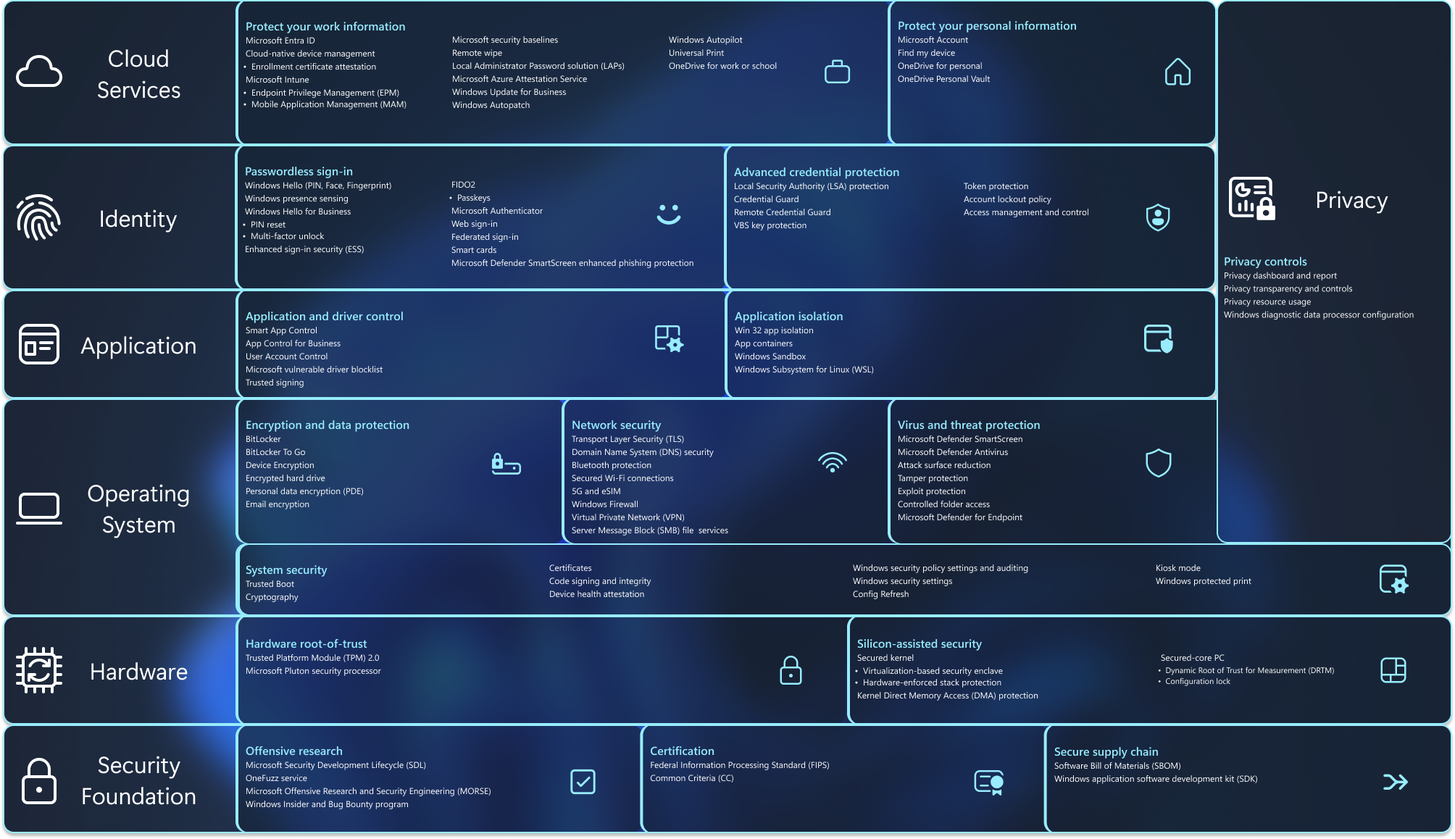
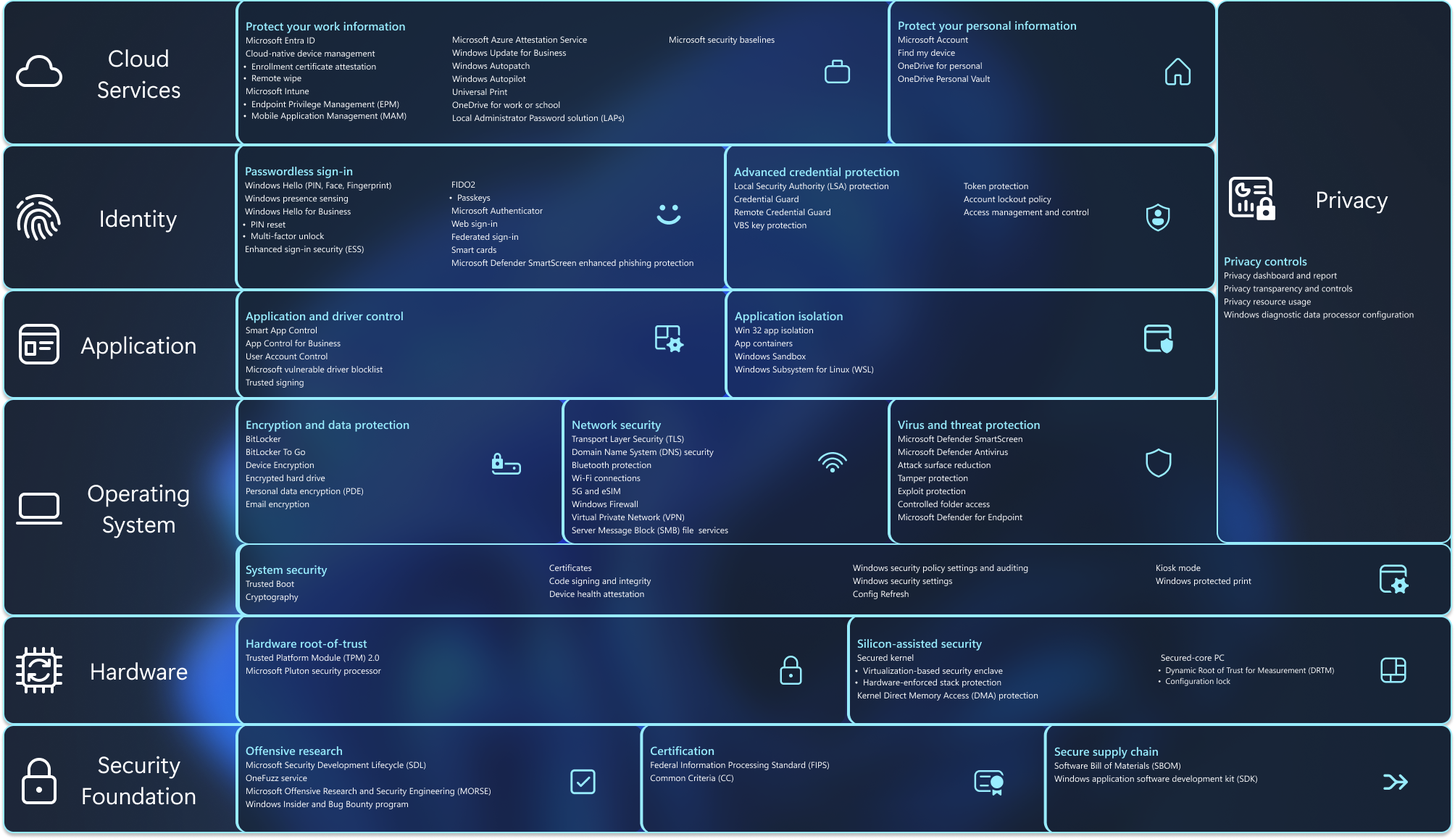
updates

diff --git a/windows/security/book/features-index.md b/windows/security/book/features-index.md
@@ -7,4 +7,4 @@ ms.date: 09/06/2024
 
 # Features index
 
-[5G and eSIM](operating-system-security-network-security.md#5g-and-esim)<br>[Access management and control](identity-protection-advanced-credential-protection.md#access-management-and-control)<br>[Account lockout policies](identity-protection-advanced-credential-protection.md#account-lockout-policies)<br>[App containers](application-security-application-isolation.md#app-containers)<br>[App Control for Business](application-security-application-and-driver-control.md#app-control-for-business)<br>[Attack surface reduction rules](operating-system-security-virus-and-threat-protection.md#attack-surface-reduction-rules)<br>[BitLocker To Go](operating-system-security-encryption-and-data-protection.md#bitlocker-to-go)<br>[BitLocker](operating-system-security-encryption-and-data-protection.md#bitlocker)<br>[Bluetooth protection](operating-system-security-network-security.md#bluetooth-protection)<br>[Certificates](operating-system-security-system-security.md#certificates)<br>[Cloud-native management](cloud-services-protect-your-work-information.md#cloud-native-management)<br>[Code signing and integrity](operating-system-security-system-security.md#code-signing-and-integrity)<br>[Common Criteria (CC)](security-foundation-certification.md#common-criteria-cc)<br>[Config Refresh](operating-system-security-system-security.md#config-refresh)<br>[Controlled folder access](operating-system-security-virus-and-threat-protection.md#controlled-folder-access)<br>[Credential Guard](identity-protection-advanced-credential-protection.md#credential-guard)<br>[Cryptography](operating-system-security-system-security.md#cryptography)<br>[Device Encryption](operating-system-security-encryption-and-data-protection.md#device-encryption)<br>[Device health attestation](operating-system-security-system-security.md#device-health-attestation)<br>[Domain Name System (DNS) security](operating-system-security-network-security.md#domain-name-system-dns-security)<br>[Email encryption](operating-system-security-encryption-and-data-protection.md#email-encryption)<br>[Encrypted hard drive](operating-system-security-encryption-and-data-protection.md#encrypted-hard-drive)<br>[Enhanced phishing protection with Microsoft Defender SmartScreen](identity-protection-passwordless-sign-in.md#enhanced-phishing-protection-with-microsoft-defender-smartscreen)<br>[Enhanced Sign-in Security (ESS)](identity-protection-passwordless-sign-in.md#enhanced-sign-in-security-ess)<br>[Exploit protection](operating-system-security-virus-and-threat-protection.md#exploit-protection)<br>[Federal Information Processing Standard (FIPS)](security-foundation-certification.md#federal-information-processing-standard-fips)<br>[Federated sign-in](identity-protection-passwordless-sign-in.md#federated-sign-in)<br>[FIDO2](identity-protection-passwordless-sign-in.md#fido2)<br>[Find my device](cloud-services-protect-your-personal-information.md#find-my-device)<br>[Kernel Direct Memory Access (DMA) protection](hardware-security-silicon-assisted-security.md#kernel-direct-memory-access-dma-protection)<br>[Kiosk mode](operating-system-security-system-security.md#kiosk-mode)<br>[Local Administrator Password (LAPs)](cloud-services-protect-your-work-information.md#local-administrator-password-laps)<br>[Local Security Authority (LSA) protection](identity-protection-advanced-credential-protection.md#local-security-authority-lsa-protection)<br>[MDM enrollment certificate attestation](cloud-services-protect-your-work-information.md#mdm-enrollment-certificate-attestation)<br>[Microsoft Account](cloud-services-protect-your-personal-information.md#microsoft-account)<br>[Microsoft Authenticator](identity-protection-passwordless-sign-in.md#microsoft-authenticator)<br>[Microsoft Azure Attestation Service](cloud-services-protect-your-work-information.md#microsoft-azure-attestation-service)<br>[Microsoft Defender Antivirus](operating-system-security-virus-and-threat-protection.md#microsoft-defender-antivirus)<br>[Microsoft Defender for Endpoint](operating-system-security-virus-and-threat-protection.md#microsoft-defender-for-endpoint)<br>[Microsoft Defender SmartScreen](operating-system-security-virus-and-threat-protection.md#microsoft-defender-smartscreen)<br>[Microsoft Entra ID](cloud-services-protect-your-work-information.md#microsoft-entra-id)<br>[Microsoft Intune](cloud-services-protect-your-work-information.md#microsoft-intune)<br>[Microsoft Offensive Research and Security Engineering](security-foundation-offensive-research.md#microsoft-offensive-research-and-security-engineering)<br>[Microsoft Pluton security processor](hardware-security-hardware-root-of-trust.md#microsoft-pluton-security-processor)<br>[Microsoft security baselines](cloud-services-protect-your-work-information.md#microsoft-security-baselines)<br>[Microsoft Security Development Lifecycle (SDL)](security-foundation-offensive-research.md#microsoft-security-development-lifecycle-sdl)<br>[Microsoft vulnerable driver blocklist](application-security-application-and-driver-control.md#microsoft-vulnerable-driver-blocklist)<br>[Network protection](operating-system-security-virus-and-threat-protection.md#network-protection)<br>[OneDrive for personal](cloud-services-protect-your-personal-information.md#onedrive-for-personal)<br>[OneDrive for work or school](cloud-services-protect-your-work-information.md#onedrive-for-work-or-school)<br>[OneDrive Personal Vault](cloud-services-protect-your-personal-information.md#onedrive-personal-vault)<br>[OneFuzz service](security-foundation-offensive-research.md#onefuzz-service)<br>[Personal data encryption (PDE)](operating-system-security-encryption-and-data-protection.md#personal-data-encryption-pde)<br>[Privacy dashboard and report](privacy-controls.md#privacy-dashboard-and-report)<br>[Privacy resource usage](privacy-controls.md#privacy-resource-usage)<br>[Privacy transparency and controls](privacy-controls.md#privacy-transparency-and-controls)<br>[Remote Credential Guard](identity-protection-advanced-credential-protection.md#remote-credential-guard)<br>[Remote Wipe](cloud-services-protect-your-work-information.md#remote-wipe)<br>[Secured kernel](hardware-security-silicon-assisted-security.md#secured-kernel)<br>[Secured-core PC](hardware-security-silicon-assisted-security.md#secured-core-pc)<br>[Server Message Block file services](operating-system-security-network-security.md#server-message-block-file-services)<br>[Smart App Control](application-security-application-and-driver-control.md#smart-app-control)<br>[Smart cards](identity-protection-passwordless-sign-in.md#smart-cards)<br>[Software bill of materials (SBOM)](security-foundation-secure-supply-chain.md#software-bill-of-materials-sbom)<br>[Tamper protection](operating-system-security-virus-and-threat-protection.md#tamper-protection)<br>[Token protection](identity-protection-advanced-credential-protection.md#token-protection)<br>[Transport Layer Security (TLS)](operating-system-security-network-security.md#transport-layer-security-tls)<br>[Trusted Boot (Secure Boot + Measured Boot)](operating-system-security-system-security.md#trusted-boot-secure-boot--measured-boot)<br>[Trusted Platform Module (TPM)](hardware-security-hardware-root-of-trust.md#trusted-platform-module-tpm)<br>[Trusted signing](application-security-application-and-driver-control.md#trusted-signing)<br>[Universal Print](cloud-services-protect-your-work-information.md#universal-print)<br>[User Account Control](application-security-application-and-driver-control.md#user-account-control)<br>[VBS key protection](identity-protection-advanced-credential-protection.md#vbs-key-protection)<br>[Virtual private networks (VPN)](operating-system-security-network-security.md#virtual-private-networks-vpn)<br>[Web sign-in](identity-protection-passwordless-sign-in.md#web-sign-in)<br>[Wi-Fi connections](operating-system-security-network-security.md#wi-fi-connections)<br>[Win32 app isolation](application-security-application-isolation.md#win32-app-isolation)<br>[Windows App software development kit (SDK)](security-foundation-secure-supply-chain.md#windows-app-software-development-kit-sdk)<br>[Windows Autopatch](cloud-services-protect-your-work-information.md#windows-autopatch)<br>[Windows Autopilot and zero-touch deployment](cloud-services-protect-your-work-information.md#windows-autopilot-and-zero-touch-deployment)<br>[Windows diagnostic data processor configuration](privacy-controls.md#windows-diagnostic-data-processor-configuration)<br>[Windows Firewall](operating-system-security-network-security.md#windows-firewall)<br>[Windows Hello for Business](identity-protection-passwordless-sign-in.md#windows-hello-for-business)<br>[Windows Hello](identity-protection-passwordless-sign-in.md#windows-hello)<br>[Windows Insider and Bug Bounty program](security-foundation-offensive-research.md#windows-insider-and-bug-bounty-program)<br>[Windows presence sensing](identity-protection-passwordless-sign-in.md#windows-presence-sensing)<br>[Windows protected print](operating-system-security-system-security.md#windows-protected-print)<br>[Windows Sandbox](application-security-application-isolation.md#windows-sandbox)<br>[Windows security policy settings and auditing](operating-system-security-system-security.md#windows-security-policy-settings-and-auditing)<br>[Windows security settings](operating-system-security-system-security.md#windows-security-settings)<br>[Windows Subsystem for Linux (WSL)](application-security-application-isolation.md#windows-subsystem-for-linux-wsl)<br>[Windows Update for Business deployment service](cloud-services-protect-your-work-information.md#windows-update-for-business-deployment-service)<br>[Windows Update Management](cloud-services-protect-your-work-information.md#windows-update-management)
+[5G and eSIM](operating-system-security-network-security.md#5g-and-esim)<br>[Access management and control](identity-protection-advanced-credential-protection.md#access-management-and-control)<br>[Account lockout policies](identity-protection-advanced-credential-protection.md#account-lockout-policies)<br>[App containers](application-security-application-isolation.md#app-containers)<br>[App Control for Business](application-security-application-and-driver-control.md#app-control-for-business)<br>[Attack surface reduction rules](operating-system-security-virus-and-threat-protection.md#attack-surface-reduction-rules)<br>[BitLocker To Go](operating-system-security-encryption-and-data-protection.md#bitlocker-to-go)<br>[BitLocker](operating-system-security-encryption-and-data-protection.md#bitlocker)<br>[Bluetooth protection](operating-system-security-network-security.md#bluetooth-protection)<br>[Certificates](operating-system-security-system-security.md#certificates)<br>[Cloud-native management](cloud-services-protect-your-work-information.md#cloud-native-management)<br>[Code signing and integrity](operating-system-security-system-security.md#code-signing-and-integrity)<br>[Common Criteria (CC)](security-foundation-certification.md#common-criteria-cc)<br>[Config Refresh](operating-system-security-system-security.md#config-refresh)<br>[Controlled folder access](operating-system-security-virus-and-threat-protection.md#controlled-folder-access)<br>[Credential Guard](identity-protection-advanced-credential-protection.md#credential-guard)<br>[Cryptography](operating-system-security-system-security.md#cryptography)<br>[Device Encryption](operating-system-security-encryption-and-data-protection.md#device-encryption)<br>[Device health attestation](operating-system-security-system-security.md#device-health-attestation)<br>[Domain Name System (DNS) security](operating-system-security-network-security.md#domain-name-system-dns-security)<br>[Email encryption](operating-system-security-encryption-and-data-protection.md#email-encryption)<br>[Encrypted hard drive](operating-system-security-encryption-and-data-protection.md#encrypted-hard-drive)<br>[Enhanced phishing protection with Microsoft Defender SmartScreen](identity-protection-passwordless-sign-in.md#enhanced-phishing-protection-with-microsoft-defender-smartscreen)<br>[Enhanced Sign-in Security (ESS)](identity-protection-passwordless-sign-in.md#enhanced-sign-in-security-ess)<br>[Exploit protection](operating-system-security-virus-and-threat-protection.md#exploit-protection)<br>[Federal Information Processing Standard (FIPS)](security-foundation-certification.md#federal-information-processing-standard-fips)<br>[Federated sign-in](identity-protection-passwordless-sign-in.md#federated-sign-in)<br>[FIDO2](identity-protection-passwordless-sign-in.md#fido2)<br>[Find my device](cloud-services-protect-your-personal-information.md#find-my-device)<br>[Kernel Direct Memory Access (DMA) protection](hardware-security-silicon-assisted-security.md#kernel-direct-memory-access-dma-protection)<br>[Kiosk mode](operating-system-security-system-security.md#kiosk-mode)<br>[Local Administrator Password (LAPs)](cloud-services-protect-your-work-information.md#local-administrator-password-laps)<br>[Local Security Authority (LSA) protection](identity-protection-advanced-credential-protection.md#local-security-authority-lsa-protection)<br>[Microsoft Account](cloud-services-protect-your-personal-information.md#microsoft-account)<br>[Microsoft Authenticator](identity-protection-passwordless-sign-in.md#microsoft-authenticator)<br>[Microsoft Azure Attestation Service](cloud-services-protect-your-work-information.md#microsoft-azure-attestation-service)<br>[Microsoft Defender Antivirus](operating-system-security-virus-and-threat-protection.md#microsoft-defender-antivirus)<br>[Microsoft Defender for Endpoint](operating-system-security-virus-and-threat-protection.md#microsoft-defender-for-endpoint)<br>[Microsoft Defender SmartScreen](operating-system-security-virus-and-threat-protection.md#microsoft-defender-smartscreen)<br>[Microsoft Entra ID](cloud-services-protect-your-work-information.md#microsoft-entra-id)<br>[Microsoft Intune](cloud-services-protect-your-work-information.md#microsoft-intune)<br>[Microsoft Offensive Research and Security Engineering](security-foundation-offensive-research.md#microsoft-offensive-research-and-security-engineering)<br>[Microsoft Pluton security processor](hardware-security-hardware-root-of-trust.md#microsoft-pluton-security-processor)<br>[Microsoft security baselines](cloud-services-protect-your-work-information.md#microsoft-security-baselines)<br>[Microsoft Security Development Lifecycle (SDL)](security-foundation-offensive-research.md#microsoft-security-development-lifecycle-sdl)<br>[Microsoft vulnerable driver blocklist](application-security-application-and-driver-control.md#microsoft-vulnerable-driver-blocklist)<br>[Network protection](operating-system-security-virus-and-threat-protection.md#network-protection)<br>[OneDrive for personal](cloud-services-protect-your-personal-information.md#onedrive-for-personal)<br>[OneDrive for work or school](cloud-services-protect-your-work-information.md#onedrive-for-work-or-school)<br>[OneDrive Personal Vault](cloud-services-protect-your-personal-information.md#onedrive-personal-vault)<br>[OneFuzz service](security-foundation-offensive-research.md#onefuzz-service)<br>[Personal data encryption (PDE)](operating-system-security-encryption-and-data-protection.md#personal-data-encryption-pde)<br>[Privacy dashboard and report](privacy-controls.md#privacy-dashboard-and-report)<br>[Privacy resource usage](privacy-controls.md#privacy-resource-usage)<br>[Privacy transparency and controls](privacy-controls.md#privacy-transparency-and-controls)<br>[Remote Credential Guard](identity-protection-advanced-credential-protection.md#remote-credential-guard)<br>[Remote Wipe](cloud-services-protect-your-work-information.md#remote-wipe)<br>[Secured kernel](hardware-security-silicon-assisted-security.md#secured-kernel)<br>[Secured-core PC](hardware-security-silicon-assisted-security.md#secured-core-pc)<br>[Server Message Block file services](operating-system-security-network-security.md#server-message-block-file-services)<br>[Smart App Control](application-security-application-and-driver-control.md#smart-app-control)<br>[Smart cards](identity-protection-passwordless-sign-in.md#smart-cards)<br>[Software bill of materials (SBOM)](security-foundation-secure-supply-chain.md#software-bill-of-materials-sbom)<br>[Tamper protection](operating-system-security-virus-and-threat-protection.md#tamper-protection)<br>[Token protection](identity-protection-advanced-credential-protection.md#token-protection)<br>[Transport Layer Security (TLS)](operating-system-security-network-security.md#transport-layer-security-tls)<br>[Trusted Boot (Secure Boot + Measured Boot)](operating-system-security-system-security.md#trusted-boot-secure-boot--measured-boot)<br>[Trusted Platform Module (TPM)](hardware-security-hardware-root-of-trust.md#trusted-platform-module-tpm)<br>[Trusted signing](application-security-application-and-driver-control.md#trusted-signing)<br>[Universal Print](cloud-services-protect-your-work-information.md#universal-print)<br>[User Account Control](application-security-application-and-driver-control.md#user-account-control)<br>[VBS key protection](identity-protection-advanced-credential-protection.md#vbs-key-protection)<br>[Virtual private networks (VPN)](operating-system-security-network-security.md#virtual-private-networks-vpn)<br>[Web sign-in](identity-protection-passwordless-sign-in.md#web-sign-in)<br>[Wi-Fi connections](operating-system-security-network-security.md#wi-fi-connections)<br>[Win32 app isolation](application-security-application-isolation.md#win32-app-isolation)<br>[Windows App software development kit (SDK)](security-foundation-secure-supply-chain.md#windows-app-software-development-kit-sdk)<br>[Windows Autopatch](cloud-services-protect-your-work-information.md#windows-autopatch)<br>[Windows Autopilot](cloud-services-protect-your-work-information.md#windows-autopilot)<br>[Windows diagnostic data processor configuration](privacy-controls.md#windows-diagnostic-data-processor-configuration)<br>[Windows enrollment attestation](cloud-services-protect-your-work-information.md#windows-enrollment-attestation)<br>[Windows Firewall](operating-system-security-network-security.md#windows-firewall)<br>[Windows Hello for Business](identity-protection-passwordless-sign-in.md#windows-hello-for-business)<br>[Windows Hello](identity-protection-passwordless-sign-in.md#windows-hello)<br>[Windows Insider and Bug Bounty program](security-foundation-offensive-research.md#windows-insider-and-bug-bounty-program)<br>[Windows presence sensing](identity-protection-passwordless-sign-in.md#windows-presence-sensing)<br>[Windows protected print](operating-system-security-system-security.md#windows-protected-print)<br>[Windows Sandbox](application-security-application-isolation.md#windows-sandbox)<br>[Windows security policy settings and auditing](operating-system-security-system-security.md#windows-security-policy-settings-and-auditing)<br>[Windows security settings](operating-system-security-system-security.md#windows-security-settings)<br>[Windows Subsystem for Linux (WSL)](application-security-application-isolation.md#windows-subsystem-for-linux-wsl)<br>[Windows Update for Business deployment service](cloud-services-protect-your-work-information.md#windows-update-for-business-deployment-service)<br>[Windows Update Management](cloud-services-protect-your-work-information.md#windows-update-management)

diff --git a/windows/security/book/cloud-services-protect-your-work-information.md b/windows/security/book/cloud-services-protect-your-work-information.md
@@ -78,6 +78,20 @@ Windows 11 built-in management features include:
 
 - [Mobile device management overview](/windows/client-management/mdm-overview)
 
+### Remote wipe
+
+When a device is lost or stolen, IT administrators might want to remotely wipe data stored in memory and hard disks. A helpdesk agent might also want to reset devices to fix issues encountered by remote workers. A remote wipe can also be used to prepare a previously used device for a new user.
+
+Windows 11 supports the Remote Wipe configuration service provider (CSP) so that device management solutions can remotely initiate any of the following operations:
+
+- Reset the device and remove user accounts and data
+- Reset the device and clean the drive
+- Reset the device but persist user accounts and data
+
+:::image type="icon" source="images/learn-more.svg" border="false"::: **Learn more:**
+
+- [Remote wipe CSP](/windows/client-management/mdm/remotewipe-csp)
+
 ## Microsoft Intune
 
 Microsoft Intune<sup>[\[15\]](conclusion.md#footnote15)</sup> is a comprehensive cloud-native endpoint management solution that helps secure, deploy, and manage users, apps, and devices. Intune brings together technologies like Microsoft Configuration Manager and Windows Autopilot to simplify provisioning, configuration management, and software updates across the organization.
@@ -91,6 +105,16 @@ Windows 11 enables IT professionals to move to the cloud while consistently enfo
 :::image type="icon" source="images/learn-more.svg" border="false"::: **Learn more:**
 
 - [What is Microsoft Intune](/mem/intune/fundamentals/what-is-intune)
+
+### Windows enrollment attestation
+
+When a device enrolls into device management, the administrator expects it to receive the appropriate policies to secure and manage the PC. However, in some cases, malicious actors can remove enrollment certificates and use them on unmanaged PCs, making them appear enrolled but without the intended security and management policies.
+
+With Windows enrollment attestation, Microsoft Entra and Microsoft Intune certificates are bound to a device using the Trusted Platform Module (TPM). This ensures that the certificates cannot be transferred from one device to another, maintaining the integrity of the enrollment process.
+
+:::image type="icon" source="images/learn-more.svg" border="false"::: **Learn more:**
+
+- [Windows enrollment attestation](/mem/intune/enrollment/windows-enrollment-attestation)
 
 ### Endpoint Privilege Management (EPM)
 
@@ -115,14 +139,6 @@ With Intune, organizations can also extend MAM App Config, MAM App Protection, a
 :::image type="icon" source="images/learn-more.svg" border="false"::: **Learn more:**
 
 - [Data protection for Windows MAM](/mem/intune/apps/protect-mam-windows?formCode=MG0AV3)
-
-## MDM enrollment certificate attestation
-
-When a device is enrolled into device management, the administrator assumes that the device will enroll and receive appropriate policies to secure and manage the PC as they expect. In some circumstances, enrollment certificates can be removed by malicious actors and then used on unmanaged PCs to appear as though they are enrolled, but without the security and management policies the administrator intended. With MDM enrollment certificate attestation, the certificate and keys are bound to a specific machine through the use of the Trusted Platform Module (TPM) to ensure that they can't be lifted from one device and applied to another.
-
-:::image type="icon" source="images/learn-more.svg" border="false"::: **Learn more:**
-
-- [Windows enrollment attestation](/mem/intune/enrollment/windows-enrollment-attestation)
 
 ## Local Administrator Password (LAPs)
 
@@ -159,20 +175,6 @@ The security baseline has been enhanced with over 70 new settings, enabling loca
 
 - [Intune security baseline overview](/mem/intune/protect/security-baselines)
 - [List of the settings in the Windows security baseline in Intune](/mem/intune/protect/security-baseline-settings-mdm-all)
-
-## Remote Wipe
-
-When a device is lost or stolen, IT administrators might want to remotely wipe data stored in memory and hard disks. A helpdesk agent might also want to reset devices to fix issues encountered by remote workers. A remote wipe can also be used to prepare a previously used device for a new user.
-
-Windows 11 supports the Remote Wipe configuration service provider (CSP) so that MDM Solutions<sup>[\[9\]](conclusion.md#footnote9)</sup> can remotely initiate any of the following operations:
-
-- Reset the device and remove user accounts and data
-- Reset the device and clean the drive
-- Reset the device but persist user accounts and data
-
-:::image type="icon" source="images/learn-more.svg" border="false"::: **Learn more:**
-
-- [Remote Wipe CSP](/windows/client-management/mdm/remotewipe-csp)
 
 ## Microsoft Azure Attestation Service
 
@@ -225,7 +227,7 @@ There's a lot more to learn about Windows Autopatch: this [Forrester Consulting 
 
 - [Windows Autopatch documentation](https://aka.ms/Autopatchdocs)
 
-## Windows Autopilot and zero-touch deployment
+## Windows Autopilot
 
 Traditionally, IT professionals spend significant time building and customizing images that will later be deployed to devices. If you're purchasing new devices or managing device refresh cycles for employees, you can use Windows Autopilot to set up and preconfigure new devices, getting them ready for productive use. Autopilot helps you ensure your devices are delivered locked down and compliant with corporate security policies. The solution can also be used to reset, repurpose, and recover devices with zero touch by your IT team and no infrastructure to manage, enhancing efficiency with a process that's both easy and simple.
 

diff --git a/windows/security/book/operating-system-security-encryption-and-data-protection.md b/windows/security/book/operating-system-security-encryption-and-data-protection.md
@@ -64,8 +64,14 @@ With the first release of PDE (Windows 11, version 22H2), the PDE API was availa
 
 ## Email encryption
 
-Email encryption enables users to encrypt outgoing email messages and attachments so that only intended recipients with a digital identification (ID) - also called a certificate - can read them<sup>[\[10\]](conclusion.md#footnote10)</sup>. Users can digitally sign a message, which verifies the identity of the sender and ensures the message hasn't been tampered with.
+Email encryption allows users to secure email messages and attachments so that only the intended recipients with a digital identification (ID), or certificate, can read them<sup>[\[10\]](conclusion.md#footnote10)</sup>. Users can also *digitally sign* a message, which verifies the sender's identity and ensures the message hasn't been tampered with.
 
-These encrypted messages can be sent by a user to people within their organization and external contacts who have proper encryption certificates.
+The new Outlook app included in Windows 11 supports various types of email encryption, including Microsoft Purview Message Encryption, S/MIME, and Information Rights Management (IRM).
 
-However, recipients using Windows 11 Mail app can only read encrypted messages if the message is received on their Exchange account and they have corresponding decryption keys. Encrypted messages can be read only by recipients who have a certificate. If an encrypted message is sent to recipients whose encryption certificates aren't available, the app asks you to remove these recipients before sending the email.
+When using Secure/Multipurpose Internet Mail Extensions (S/MIME), users can send encrypted messages to people within their organization and to external contacts who have the proper encryption certificates. Recipients can only read encrypted messages if they have the corresponding decryption keys. If an encrypted message is sent to recipients whose encryption certificates aren't available, Outlook asks you to remove these recipients before sending the email.
+
+:::image type="icon" source="images/learn-more.svg" border="false"::: **Learn more:**
+
+- [S/MIME for message signing and encryption in Exchange Online](/exchange/security-and-compliance/smime-exo/smime-exo)
+- [Get started with the new Outlook for Windows](https://support.microsoft.com/topic/656bb8d9-5a60-49b2-a98b-ba7822bc7627)
+- [Email encryption](/purview/email-encryption)
